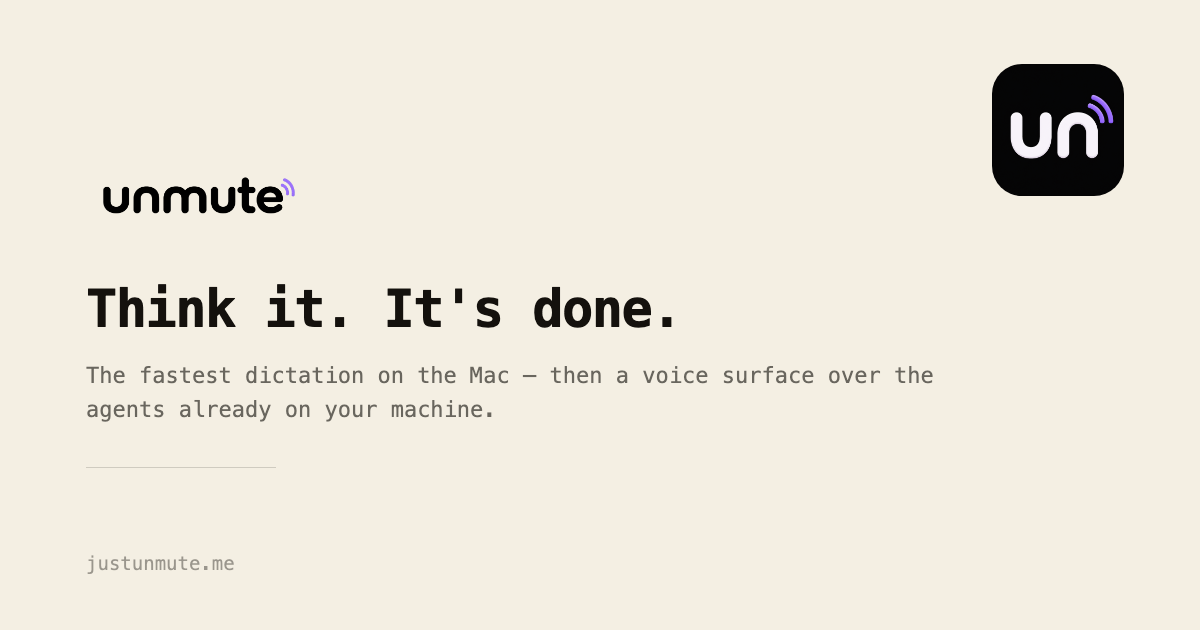
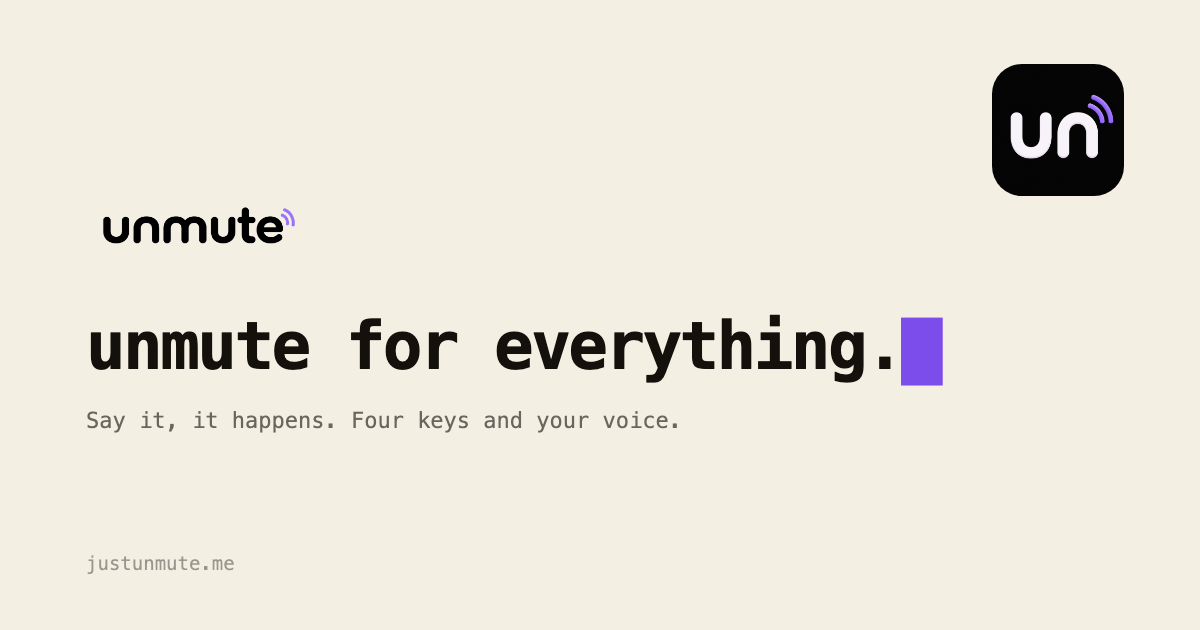
site: "unmute for everything", bigger mark, tighter hero
- Wordmark up ~20%: 36px in the header, 26px in the footer, with the intrinsic
  width/height attributes and the hover padding moved to match.
- Headline is now "unmute for everything." The speed claim is no longer the
  opening pitch — it moves down to the dictation section where it belongs.
- Hero cut to one line of supporting copy, and the four key cards trimmed. The
  blinking cursor stays exactly as it was.
- Title, meta description and the share card follow the new line.

docs.css/theme.js bumped to ?v=6.

Claude-Session: https://claude.ai/code/session_017D2WGGyfiK8zRbtzCfRRmL

Changed region(s): [[0.0617, 0.4524, 0.8017, 0.6333], [0.0617, 0.6333, 0.555, 0.6937], [0.0617, 0.2714, 0.2467, 0.3921]]

diff --git a/index.html b/index.html
@@ -3,12 +3,12 @@
 <head>
 <meta charset="utf-8" />
 <meta name="viewport" content="width=device-width,initial-scale=1" />
-<title>unmute — it types what you say. it also does what you say.</title>
-<meta name="description" content="The fastest Mac dictation there is, with an offline fallback so your words never drop. Then a voice surface over the agents already on your Mac — start work by talking, and see whose move it is. unmute has no intelligence of its own; that's the point." />
+<title>unmute — for everything</title>
+<meta name="description" content="unmute for everything. Say it, it happens — dictation, real work on your Mac, meetings and memory, all from four keys and your voice." />
 <link rel="icon" type="image/png" href="icon.png" />
 <link rel="apple-touch-icon" href="apple-touch-icon.png" />
 <meta property="og:title" content="unmute" />
-<meta property="og:description" content="Think it. It’s done. Voice + agents — the interface this era has been missing." />
+<meta property="og:description" content="Say it, it happens. Four keys and your voice." />
 <meta property="og:image" content="https://justunmute.me/og.png" />
 <meta property="og:image:width" content="1200" />
 <meta property="og:image:height" content="630" />
@@ -19,7 +19,7 @@
 <link rel="preconnect" href="https://fonts.googleapis.com" />
 <link rel="preconnect" href="https://fonts.gstatic.com" crossorigin />
 <link href="https://fonts.googleapis.com/css2?family=JetBrains+Mono:wght@400;500;700&display=swap" rel="stylesheet" />
-<link rel="stylesheet" href="docs.css?v=5" />
+<link rel="stylesheet" href="docs.css?v=6" />
 <script>(function(){try{var t=localStorage.getItem('theme')||(window.matchMedia&&matchMedia('(prefers-color-scheme: dark)').matches?'dark':'light');document.documentElement.setAttribute('data-theme',t);}catch(e){}})();</script>
 </head>
 <body>
@@ -27,7 +27,7 @@
 
     <div class="top">
       <a class="logo" href="./" aria-label="unmute">
-        <img class="logo-black" src="unmute-wordmark-black.png" alt="unmute" width="90" height="30" /><img class="logo-white" src="unmute-wordmark-white.png" alt="" aria-hidden="true" width="90" height="30" />
+        <img class="logo-black" src="unmute-wordmark-black.png" alt="unmute" width="108" height="36" /><img class="logo-white" src="unmute-wordmark-white.png" alt="" aria-hidden="true" width="108" height="36" />
       </a>
       <nav>
         <a href="dictation.html">dictation</a>
@@ -44,19 +44,19 @@
 
     <section class="hero">
       <p class="eyebrow">// voice + agents · macOS</p>
-      <h1>Think it.<br />It’s done.<span class="cursor">█</span></h1>
-      <p class="hero-sub">The fastest dictation on the Mac — under a second, every time, online or not. Then one more key that turns a sentence into work your agent actually does, and a surface that watches it so you don’t have to.</p>
+      <h1>unmute for<br />everything.<span class="cursor">█</span></h1>
+      <p class="hero-sub">Say it, it happens. Dictation, real work on your machine, meetings, memory — four keys and your voice.</p>
       <div class="cta-row">
         <a class="btn" href="pricing.html">Get unmute</a>
         <a class="arrow" href="https://cal.com/unmute/15min" data-cal-link="unmute/15min" data-cal-namespace="unmute15" data-cal-config='{"layout":"month_view"}'>book 15 minutes</a>
       </div>
-      <p class="hero-note">// free offline dictation, no account. the agent half needs a Claude Code Pro or Max plan — because it is one, and it uses yours.</p>
+      <p class="hero-note">// free offline dictation, no account. the agent half runs on your own Claude Code plan.</p>
 
       <div class="keys">
-        <div class="k"><span class="cap"><kbd>hold</kbd></span><p><b>Talk. It types.</b> Sub-second, 10 seconds or 10 minutes. Network dies mid-word, it keeps going on-device.</p></div>
-        <div class="k"><span class="cap"><kbd>right option</kbd></span><p><b>Talk. It does it.</b> A real agent session on your actual Mac. Files, browsers, apps.</p></div>
-        <div class="k"><span class="cap"><kbd>right command</kbd></span><p><b>Talk to unmute itself.</b> Memory, what you said last week, hand work out, reopen anything.</p></div>
-        <div class="k"><span class="cap"><kbd>left control ×2</kbd></span><p><b>Double-tap. It takes notes.</b> Your meeting, written up by your own CLI. Never a cloud model.</p></div>
+        <div class="k"><span class="cap"><kbd>hold</kbd></span><p><b>Talk. It types.</b> Sub-second, every time. Network dies mid-word, it keeps going on-device.</p></div>
+        <div class="k"><span class="cap"><kbd>right option</kbd></span><p><b>Talk. It does it.</b> A real agent session on your Mac. Files, browsers, apps.</p></div>
+        <div class="k"><span class="cap"><kbd>right command</kbd></span><p><b>Talk to unmute itself.</b> Memory, what you said last week, hand work out.</p></div>
+        <div class="k"><span class="cap"><kbd>left control ×2</kbd></span><p><b>Double-tap. It takes notes.</b> Written up by your own CLI. Never a cloud model.</p></div>
       </div>
     </section>
 
@@ -173,7 +173,7 @@
     </section>
 
     <footer>
-      <div class="logo"><img class="logo-black" src="unmute-wordmark-black.png" alt="unmute" width="66" height="22" /><img class="logo-white" src="unmute-wordmark-white.png" alt="" aria-hidden="true" width="66" height="22" /></div>
+      <div class="logo"><img class="logo-black" src="unmute-wordmark-black.png" alt="unmute" width="78" height="26" /><img class="logo-white" src="unmute-wordmark-white.png" alt="" aria-hidden="true" width="78" height="26" /></div>
       <div class="links">
         <a href="dictation.html">dictation</a>
         <a href="remote.html">unmute remote</a>
@@ -189,7 +189,7 @@
     </footer>
 
   </main>
-  <script src="theme.js?v=5"></script>
+  <script src="theme.js?v=6"></script>
   <script src="cal.js"></script>
 </body>
 </html>

diff --git a/manifesto.html b/manifesto.html
@@ -19,7 +19,7 @@
 <link rel="preconnect" href="https://fonts.googleapis.com" />
 <link rel="preconnect" href="https://fonts.gstatic.com" crossorigin />
 <link href="https://fonts.googleapis.com/css2?family=JetBrains+Mono:wght@400;500;700&display=swap" rel="stylesheet" />
-<link rel="stylesheet" href="docs.css?v=5" />
+<link rel="stylesheet" href="docs.css?v=6" />
 <script>(function(){try{var t=localStorage.getItem('theme')||(window.matchMedia&&matchMedia('(prefers-color-scheme: dark)').matches?'dark':'light');document.documentElement.setAttribute('data-theme',t);}catch(e){}})();</script>
 </head>
 <body>
@@ -27,7 +27,7 @@
 
     <div class="top">
       <a class="logo" href="./" aria-label="unmute">
-        <img class="logo-black" src="unmute-wordmark-black.png" alt="unmute" width="90" height="30" /><img class="logo-white" src="unmute-wordmark-white.png" alt="" aria-hidden="true" width="90" height="30" />
+        <img class="logo-black" src="unmute-wordmark-black.png" alt="unmute" width="108" height="36" /><img class="logo-white" src="unmute-wordmark-white.png" alt="" aria-hidden="true" width="108" height="36" />
       </a>
       <nav>
         <a href="dictation.html">dictation</a>
@@ -151,7 +151,7 @@
     </div>
 
     <footer>
-      <div class="logo"><img class="logo-black" src="unmute-wordmark-black.png" alt="unmute" width="66" height="22" /><img class="logo-white" src="unmute-wordmark-white.png" alt="" aria-hidden="true" width="66" height="22" /></div>
+      <div class="logo"><img class="logo-black" src="unmute-wordmark-black.png" alt="unmute" width="78" height="26" /><img class="logo-white" src="unmute-wordmark-white.png" alt="" aria-hidden="true" width="78" height="26" /></div>
       <div class="links">
         <a href="dictation.html">dictation</a>
         <a href="remote.html">unmute remote</a>
@@ -167,7 +167,7 @@
     </footer>
 
   </main>
-  <script src="theme.js?v=5"></script>
+  <script src="theme.js?v=6"></script>
   <script src="cal.js"></script>
 </body>
 </html>

diff --git a/pricing.html b/pricing.html
@@ -19,7 +19,7 @@
 <link rel="preconnect" href="https://fonts.googleapis.com" />
 <link rel="preconnect" href="https://fonts.gstatic.com" crossorigin />
 <link href="https://fonts.googleapis.com/css2?family=JetBrains+Mono:wght@400;500;700&display=swap" rel="stylesheet" />
-<link rel="stylesheet" href="docs.css?v=5" />
+<link rel="stylesheet" href="docs.css?v=6" />
 <script>(function(){try{var t=localStorage.getItem('theme')||(window.matchMedia&&matchMedia('(prefers-color-scheme: dark)').matches?'dark':'light');document.documentElement.setAttribute('data-theme',t);}catch(e){}})();</script>
 </head>
 <body>
@@ -27,7 +27,7 @@
 
     <div class="top">
       <a class="logo" href="./" aria-label="unmute">
-        <img class="logo-black" src="unmute-wordmark-black.png" alt="unmute" width="90" height="30" /><img class="logo-white" src="unmute-wordmark-white.png" alt="" aria-hidden="true" width="90" height="30" />
+        <img class="logo-black" src="unmute-wordmark-black.png" alt="unmute" width="108" height="36" /><img class="logo-white" src="unmute-wordmark-white.png" alt="" aria-hidden="true" width="108" height="36" />
       </a>
       <nav>
         <a href="dictation.html">dictation</a>
@@ -90,7 +90,7 @@
     </section>
 
     <footer>
-      <div class="logo"><img class="logo-black" src="unmute-wordmark-black.png" alt="unmute" width="66" height="22" /><img class="logo-white" src="unmute-wordmark-white.png" alt="" aria-hidden="true" width="66" height="22" /></div>
+      <div class="logo"><img class="logo-black" src="unmute-wordmark-black.png" alt="unmute" width="78" height="26" /><img class="logo-white" src="unmute-wordmark-white.png" alt="" aria-hidden="true" width="78" height="26" /></div>
       <div class="links">
         <a href="./">home</a>
         <a href="dictation.html">dictation</a>
@@ -105,7 +105,7 @@
     </footer>
 
   </main>
-  <script src="theme.js?v=5"></script>
+  <script src="theme.js?v=6"></script>
   <script src="cal.js"></script>
 </body>
 </html>

diff --git a/remote.html b/remote.html
@@ -19,7 +19,7 @@
 <link rel="preconnect" href="https://fonts.googleapis.com" />
 <link rel="preconnect" href="https://fonts.gstatic.com" crossorigin />
 <link href="https://fonts.googleapis.com/css2?family=JetBrains+Mono:wght@400;500;700&display=swap" rel="stylesheet" />
-<link rel="stylesheet" href="docs.css?v=5" />
+<link rel="stylesheet" href="docs.css?v=6" />
 <script>(function(){try{var t=localStorage.getItem('theme')||(window.matchMedia&&matchMedia('(prefers-color-scheme: dark)').matches?'dark':'light');document.documentElement.setAttribute('data-theme',t);}catch(e){}})();</script>
 </head>
 <body>
@@ -27,7 +27,7 @@
 
     <div class="top">
       <a class="logo" href="./" aria-label="unmute">
-        <img class="logo-black" src="unmute-wordmark-black.png" alt="unmute" width="90" height="30" /><img class="logo-white" src="unmute-wordmark-white.png" alt="" aria-hidden="true" width="90" height="30" />
+        <img class="logo-black" src="unmute-wordmark-black.png" alt="unmute" width="108" height="36" /><img class="logo-white" src="unmute-wordmark-white.png" alt="" aria-hidden="true" width="108" height="36" />
       </a>
       <nav>
         <a href="dictation.html">dictation</a>
@@ -123,7 +123,7 @@
     </section>
 
     <footer>
-      <div class="logo"><img class="logo-black" src="unmute-wordmark-black.png" alt="unmute" width="66" height="22" /><img class="logo-white" src="unmute-wordmark-white.png" alt="" aria-hidden="true" width="66" height="22" /></div>
+      <div class="logo"><img class="logo-black" src="unmute-wordmark-black.png" alt="unmute" width="78" height="26" /><img class="logo-white" src="unmute-wordmark-white.png" alt="" aria-hidden="true" width="78" height="26" /></div>
       <div class="links">
         <a href="./">home</a>
         <a href="dictation.html">dictation</a>
@@ -137,6 +137,6 @@
     </footer>
 
   </main>
-  <script src="theme.js?v=5"></script>
+  <script src="theme.js?v=6"></script>
 </body>
 </html>

diff --git a/dictation.html b/dictation.html
@@ -19,7 +19,7 @@
 <link rel="preconnect" href="https://fonts.googleapis.com" />
 <link rel="preconnect" href="https://fonts.gstatic.com" crossorigin />
 <link href="https://fonts.googleapis.com/css2?family=JetBrains+Mono:wght@400;500;700&display=swap" rel="stylesheet" />
-<link rel="stylesheet" href="docs.css?v=5" />
+<link rel="stylesheet" href="docs.css?v=6" />
 <script>(function(){try{var t=localStorage.getItem('theme')||(window.matchMedia&&matchMedia('(prefers-color-scheme: dark)').matches?'dark':'light');document.documentElement.setAttribute('data-theme',t);}catch(e){}})();</script>
 </head>
 <body>
@@ -27,7 +27,7 @@
 
     <div class="top">
       <a class="logo" href="./" aria-label="unmute">
-        <img class="logo-black" src="unmute-wordmark-black.png" alt="unmute" width="90" height="30" /><img class="logo-white" src="unmute-wordmark-white.png" alt="" aria-hidden="true" width="90" height="30" />
+        <img class="logo-black" src="unmute-wordmark-black.png" alt="unmute" width="108" height="36" /><img class="logo-white" src="unmute-wordmark-white.png" alt="" aria-hidden="true" width="108" height="36" />
       </a>
       <nav>
         <a href="dictation.html">dictation</a>
@@ -93,7 +93,7 @@
     </section>
 
     <footer>
-      <div class="logo"><img class="logo-black" src="unmute-wordmark-black.png" alt="unmute" width="66" height="22" /><img class="logo-white" src="unmute-wordmark-white.png" alt="" aria-hidden="true" width="66" height="22" /></div>
+      <div class="logo"><img class="logo-black" src="unmute-wordmark-black.png" alt="unmute" width="78" height="26" /><img class="logo-white" src="unmute-wordmark-white.png" alt="" aria-hidden="true" width="78" height="26" /></div>
       <div class="links">
         <a href="./">home</a>
         <a href="remote.html">unmute remote</a>
@@ -106,6 +106,6 @@
     </footer>
 
   </main>
-  <script src="theme.js?v=5"></script>
+  <script src="theme.js?v=6"></script>
 </body>
 </html>

diff --git a/docs.css b/docs.css
@@ -44,8 +44,8 @@ body {
 /* top line: logo + tiny right-aligned nav */
 .top { display: flex; align-items: center; justify-content: space-between; gap: 16px; margin-bottom: 46px; }
 .top .logo { flex: none; display: inline-flex; align-items: center;
-  padding: 4px 7px; margin: -4px -7px; border-radius: 8px; text-decoration: none; }
-.top .logo img { height: 30px; width: auto; display: block; }
+  padding: 5px 8px; margin: -5px -8px; border-radius: 9px; text-decoration: none; }
+.top .logo img { height: 36px; width: auto; display: block; }
 
 /* Official wordmarks: black on paper, white on charcoal.
    Hover fills the block with --ink, which flips the background under the mark —
@@ -134,7 +134,7 @@ footer .links { display: flex; flex-wrap: wrap; gap: 16px; margin-bottom: 12px; 
 footer .links a { color: var(--ink-60); }
 footer .links a:hover { color: var(--paper); }
 footer .logo { opacity: 0.72; margin-bottom: 14px; }
-footer .logo img { height: 22px; width: auto; display: block; }
+footer .logo img { height: 26px; width: auto; display: block; }
 footer .logo .logo-white { display: none; }
 html[data-theme="dark"] footer .logo .logo-black { display: none; }
 html[data-theme="dark"] footer .logo .logo-white { display: block; }
